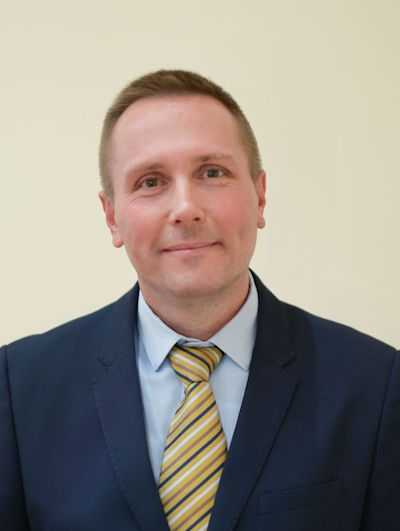
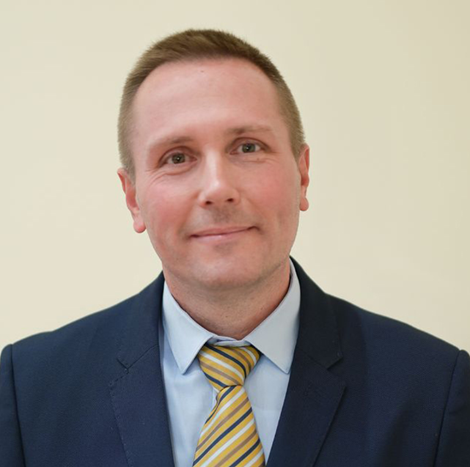
.

diff --git a/src/components/BudgetExplanation.jsx b/src/components/BudgetExplanation.jsx
@@ -17,8 +17,8 @@ export default function BudgetExplanation() {
                     <BookOpen size={28} /> Kisokos: Hogyan épül fel a költségvetés?
                 </h3>
                 <p style={{ color: 'var(--text-muted)', fontSize: '1.05rem', maxWidth: '800px', margin: '0 auto', lineHeight: 1.6 }}>
-                    Egy önkormányzat költségvetésének megértése kulcsfontosságú a transzparens városvezetéshez.
-                    Az alábbi rövid útmutató segít eligazodni abban, honnan lesz pénze a városnak és hogyan tervezi meg a jövőt.
+                    Egy önkormányzat költségvetésének megértése kulcsfontosságú a transzparens településvezetéshez.
+                    Az alábbi rövid útmutató segít eligazodni abban, honnan lesz forrása Sóskútnak és hogyan tervezi meg a jövőt.
                 </p>
             </div>
 
@@ -46,7 +46,7 @@ export default function BudgetExplanation() {
                         <h4 style={{ fontSize: '1.1rem', margin: 0, color: 'var(--text-main)' }}>2. Működési kiadások</h4>
                     </div>
                     <p style={{ fontSize: '0.95rem', color: 'var(--text-muted)', lineHeight: 1.6, margin: 0 }}>
-                        A város mindennapos túléléséhez szükséges pénzek. Ide tartoznak a bérköltségek (személyi juttatások), a közműdíjak és külsős szolgáltatások (dologi kiadások),
+                        A település mindennapos túléléséhez szükséges anyagi források. Ide tartoznak a bérköltségek (személyi juttatások), a közműdíjak és külsős szolgáltatások (dologi kiadások),
                         valamint az <strong>állam felé fizetendő, kötelező szolidaritási hozzájárulás</strong> (ami a tehetősebb településektől elvont pénz a szegényebbek javára).
                     </p>
                 </div>
@@ -62,7 +62,7 @@ export default function BudgetExplanation() {
                     <p style={{ fontSize: '0.95rem', color: 'var(--text-muted)', lineHeight: 1.6, margin: 0 }}>
                         Ezekből a forrásokból épülnek az új utak, óvodák, egészségügyi intézmények és újulnak meg a közterek.
                         A beruházásokhoz az önkormányzat <strong>saját forrást</strong>, illetve (ha van rá lehetőség) <strong>hazai vagy EU-s pályázati támogatásokat</strong> használ fel.
-                        Ezek alkotják a város vagyonának növekedését.
+                        Ezek alkotják a település vagyonának növekedését.
                     </p>
                 </div>
 
@@ -72,11 +72,11 @@ export default function BudgetExplanation() {
                         <div style={{ padding: '0.8rem', background: 'rgba(16, 185, 129, 0.15)', borderRadius: '12px', color: '#10b981' }}>
                             <HandCoins size={24} />
                         </div>
-                        <h4 style={{ fontSize: '1.1rem', margin: 0, color: 'var(--text-main)' }}>4. Honnan van a pénz?</h4>
+                        <h4 style={{ fontSize: '1.1rem', margin: 0, color: 'var(--text-main)' }}>4. Honnan származnak az anyagi források?</h4>
                     </div>
                     <p style={{ fontSize: '0.95rem', color: 'var(--text-muted)', lineHeight: 1.6, margin: 0 }}>
                         A költségvetés gerincét a központi állami támogatások (amik a lakosság számától és feladatoktól függenek) és a <strong>helyi adók</strong> (iparűzési adó – IPA, építményadó) adják.
-                        Minél stabilabb a helyi gazdaság és minél több vállalkozás működik a városban, annál több jut utána fejlesztésekre (ezt hívjuk <i>pénzügyi autonómiának</i>).
+                        Minél stabilabb a helyi gazdaság és minél több vállalkozás működik a településen, annál több jut utána fejlesztésekre (ezt hívjuk <i>pénzügyi autonómiának</i>).
                     </p>
                 </div>
 